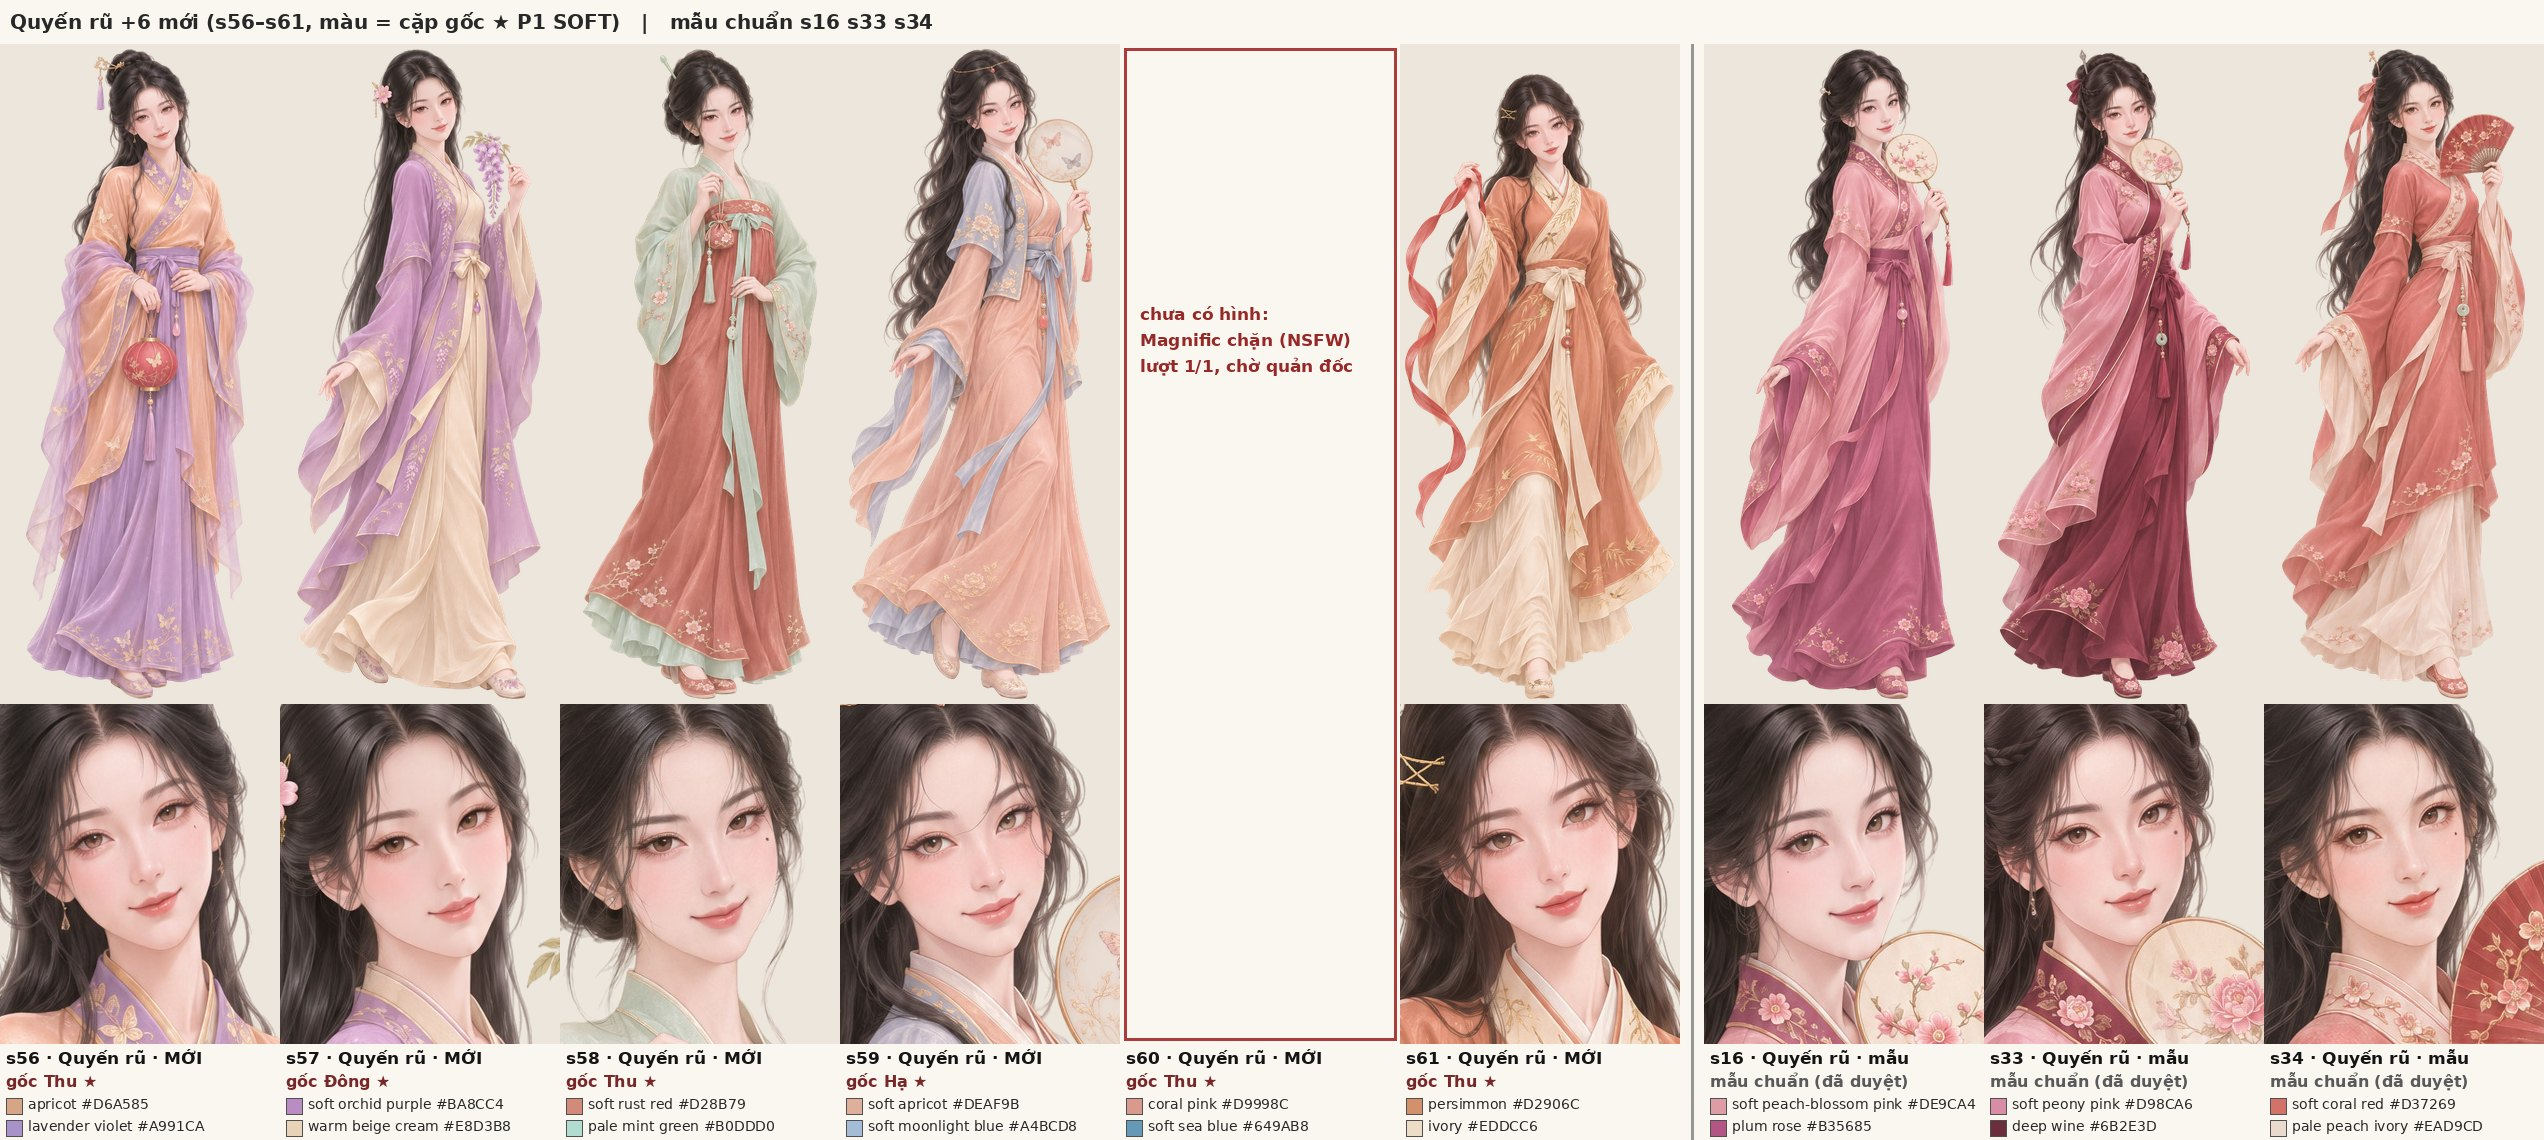
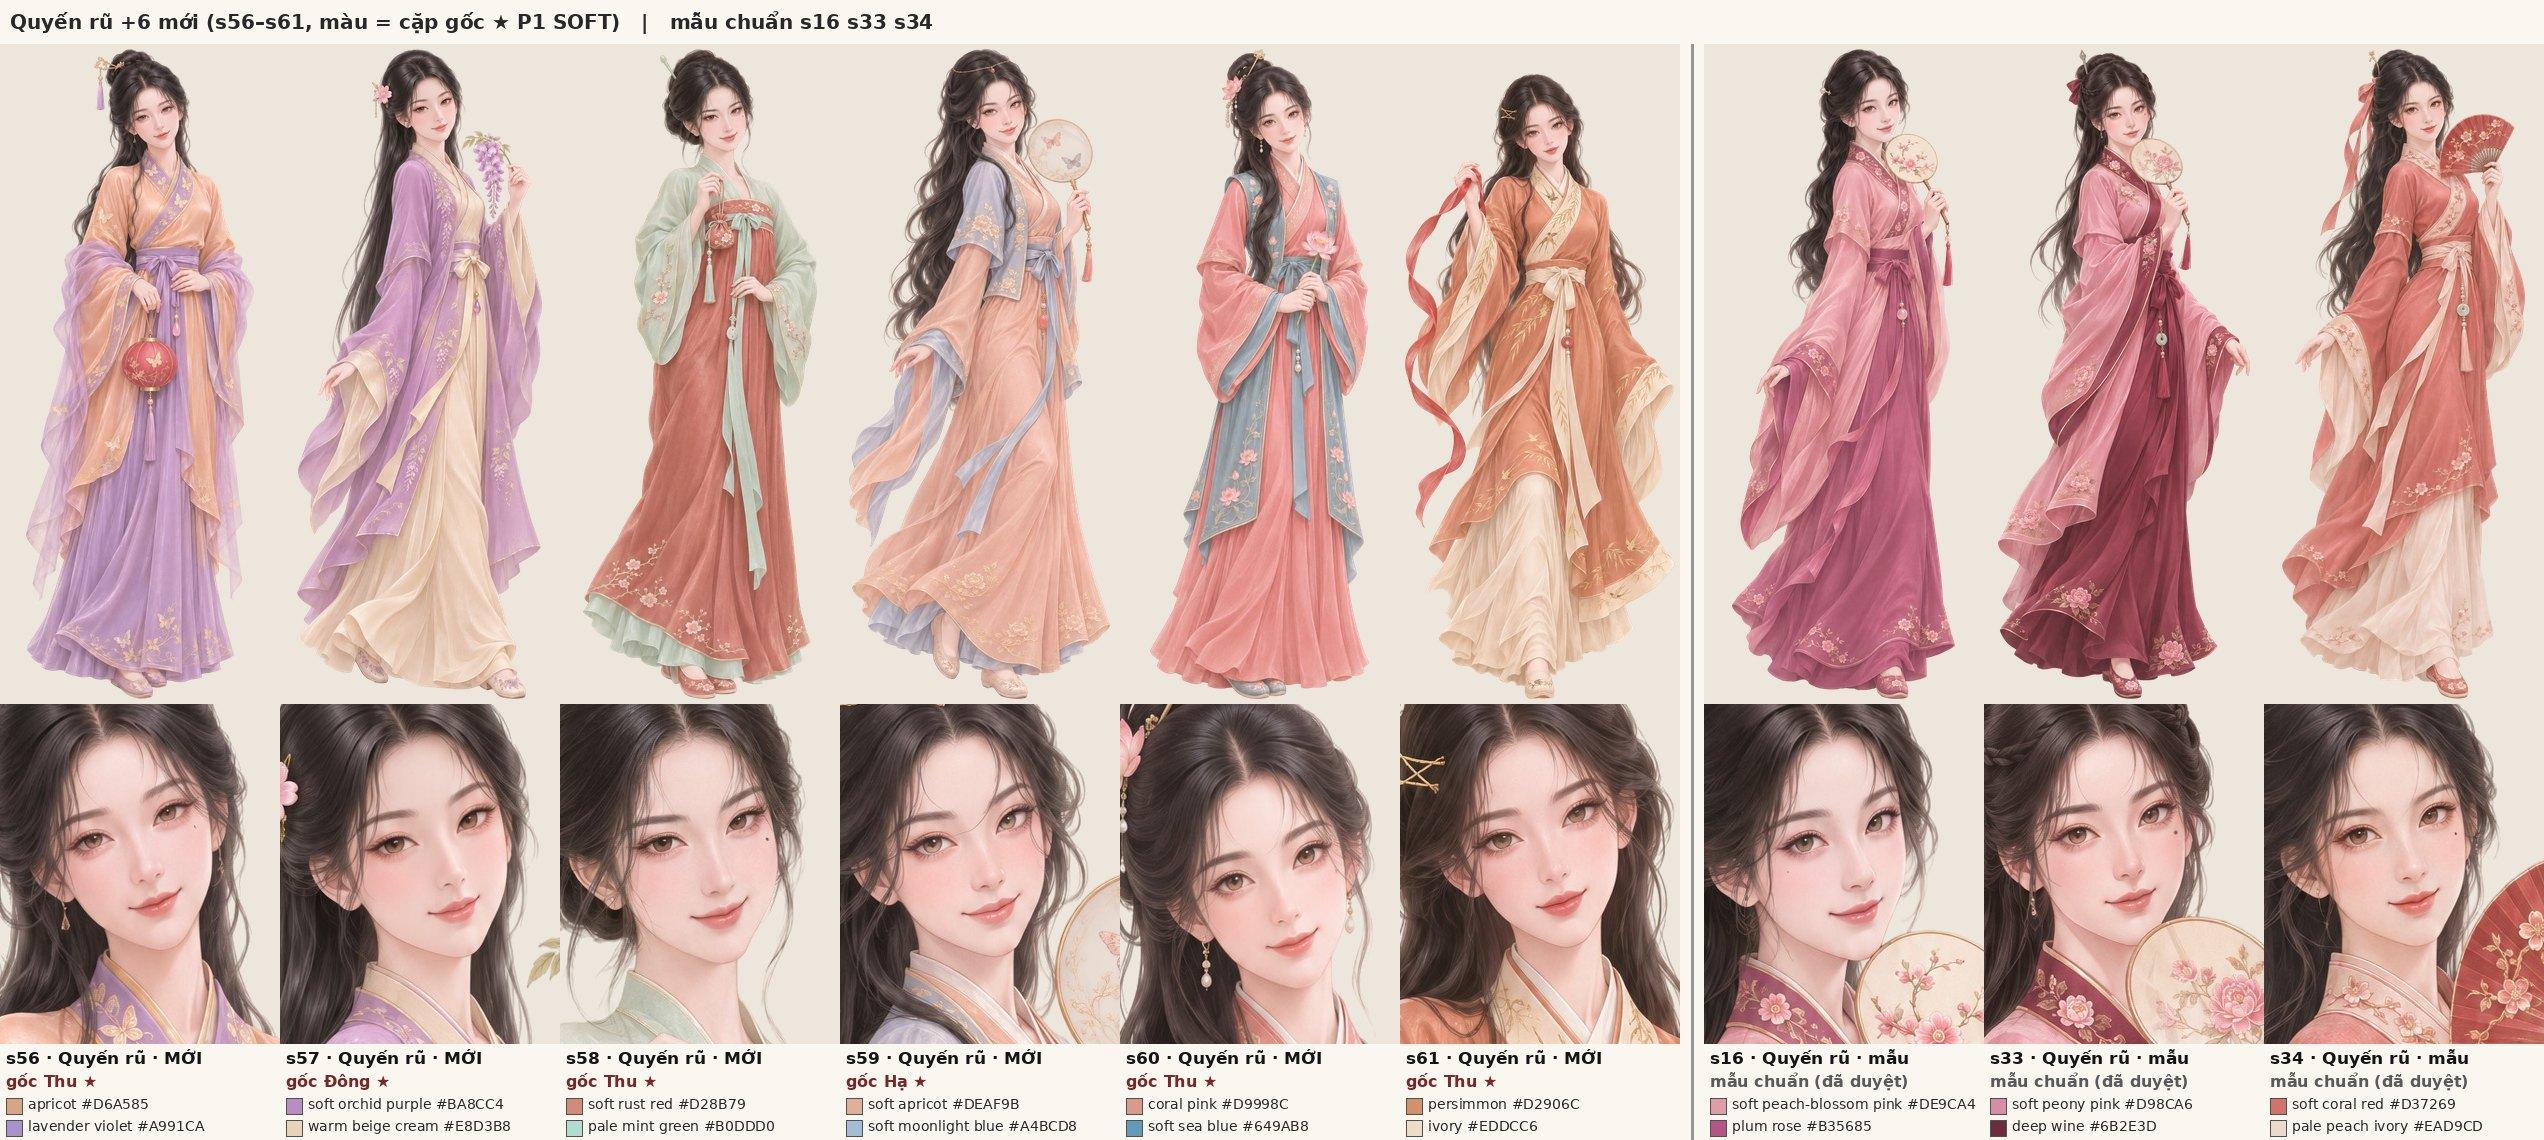
F2 Quyến rũ s60: one retry seed 7173 (foreman GO after NSFW-filter block), cut, map, crop, sheet with all 6
Claude-Session: https://claude.ai/code/session_01PEhRbxZYk34EBHsYxXhgnM

Changed region(s): [[0.4347, 0.0307, 0.559, 0.9211]]

diff --git a/dev/art/face-common/make_sheet_quyenru_L761.py b/dev/art/face-common/make_sheet_quyenru_L761.py
@@ -11,7 +11,7 @@ cut = sys.argv[1]
 sr = json.load(open(os.path.join(D, 's_root_colours.json')))
 VN = {'xuan': 'Xuân', 'ha': 'Hạ', 'thu': 'Thu', 'dong': 'Đông'}
 NEW = ['s56', 's57', 's58', 's59', 's60', 's61']; BEN = ['s16', 's33', 's34']
-MISSING = {'s60': ['chưa có hình:', 'Magnific chặn (NSFW)', 'lượt 1/1, chờ quản đốc']}
+MISSING = {}
 BENCH = {k: (sr[k]['main'], sr[k]['main_hex'], sr[k]['sec'], sr[k]['sec_hex']) for k in BEN}
 F = lambda s, b=False: ImageFont.truetype('/usr/share/fonts/truetype/dejavu/DejaVuSans%s.ttf' % ('-Bold' if b else ''), s)
 CW, FH, ZH, TH, GAP = 280, 660, 340, 96, 24

diff --git a/dev/art/face-common/LOOK_GROUPS.md b/dev/art/face-common/LOOK_GROUPS.md
@@ -82,4 +82,4 @@ File máy đọc: dev/art/face-common/OWNER_GROUPS_L686.json
 - Lượt 737 Sắc sảo DONE (ROOT-56 subagent): c06 redraw (c06.v5 re-run unchanged, A13) → cut hu24KgZvqL (was rgXcT8Jxtc); c19 redraw (c19.v5 re-run) → cut hu24KS2vqL (was gOmpdCcSXO). NEW Sắc sảo s39–s45 (make_sacsao_L737.py → sNN.v5): s39 eIPgu6IdqL (saffron amber + smoky teal), s40 kseWy8L16B (cerulean blue + pale apricot), s41 u5WRlMfQLD (olive green + pale gold beige), s42 tCRyKn2mZJ (raspberry magenta + pale mint), s43 79foGqDJAL (sapphire blue + pale lemon cream), s44 79foGbpJAL (burnt sienna + sage grey), s45 kseWyhP16B (aubergine purple + pale gold). Sắc sảo = 18. Sheet: dev/handover/review-sheets/new-faces-v4/sacsao_L737.jpg.
 - Lượt 761 Lạnh lùng +5 DONE (ROOT-56 subagent, awaiting owner OK): NEW Lạnh lùng s46–s50 (make_lanhlung_L761.py → sNN.v5, same Lạnh lùng v5 block as s13–s15/s26–s32 + thướt tha FABRIC sentence). Colours from the season palette (palettes_season.json, 4 seasons each; root pair in s_root_colours.json), drawn in the root (★) pair: s46 Đông★ cool aquamarine + deep blue-violet → cut cpS1KEv0eP; s47 Hạ★ periwinkle + mint → 1ldcY3kr4r; s48 Xuân★ soft blush pink + aqua celadon → jUoV0AQLD0; s49 Thu★ soft burgundy rose + pine teal → Tdwx1H7VNR; s50 Đông★ clear ice blue + deep raspberry → u5WRiP4QLD. Lạnh lùng = 15. Sheet: dev/handover/review-sheets/new-faces-v4/lanhlung_L761.jpg.
 - Lượt 761/763 Kiêu kỳ +5 DONE (F1, awaiting owner OK): NEW Kiêu kỳ s51–s55 (make_kieuky_L761.py → sNN.v5, T7 Kiêu kỳ v5 block + MASTER + face_gate PASS), roots P1 NEW11 SOFT (s_root_colours.json): s51 cool lilac + soft pine teal → cut dt4SA3PXSL; s52 sky blue + soft coral → lJtpQC3gv9; s53 soft lavender + pale mint green → w4aBbFH7EI; s54 carnation pink + soft sea blue → s7IDuCpl8e; s55 pink lilac + soft jade green → WDgk4PIcXe. Kiêu kỳ = 15. Sheet: dev/handover/review-sheets/new-faces-v4/kieuky_L761.jpg.
-- Lượt 761/789 Quyến rũ +6 (F2, awaiting owner OK): NEW Quyến rũ s56–s61 (make_quyenru_L761.py → sNN.v5, approved wording unchanged per Lượt 787, MASTER + face_gate PASS), roots P1 SOFT (s_root_colours.json): s56 apricot + lavender violet → cut rgX0qMZxtc; s57 soft orchid purple + warm beige cream → VX7jnlVMMU; s58 soft rust red + pale mint green → yiutSarPW9; s59 soft apricot + soft moonlight blue → JNC8lvIOq4; s60 NOT DRAWN (Magnific NSFW filter blocked try 1/1, waits foreman); s61 persimmon + ivory → SyhdxtJUb8. Sheet: dev/handover/review-sheets/new-faces-v4/quyenru_L761.jpg.
+- Lượt 761/789 Quyến rũ +6 (F2, awaiting owner OK): NEW Quyến rũ s56–s61 (make_quyenru_L761.py → sNN.v5, approved wording unchanged per Lượt 787, MASTER + face_gate PASS), roots P1 SOFT (s_root_colours.json): s56 apricot + lavender violet → cut rgX0qMZxtc; s57 soft orchid purple + warm beige cream → VX7jnlVMMU; s58 soft rust red + pale mint green → yiutSarPW9; s59 soft apricot + soft moonlight blue → JNC8lvIOq4; s60 coral pink + soft sea blue → lJtpjSYgv9 (seed 7172 blocked by NSFW filter; foreman GO 1 retry seed 7173); s61 persimmon + ivory → SyhdxtJUb8. Sheet: dev/handover/review-sheets/new-faces-v4/quyenru_L761.jpg.

diff --git a/dev/handover/reports/F1-newfaces.md b/dev/handover/reports/F1-newfaces.md
@@ -99,3 +99,4 @@ START_CTX ≈4 % of 1M (estimate; get_session context_usage read 0) · depth 1 (
 - Faults to show the owner (NOT fixed, L777): beauty mark clearly visible only on s56 and s58; s57/s59/s61 show none at this size. s61 crossed gold pins at the temple stick out sideways (prompt says up/back). s56 has a small gold earring (not in prompt). s57 (orchid) and s56 (lavender skirt) share a purple family.
 - Sheet dev/handover/review-sheets/new-faces-v4/quyenru_L761.jpg (6 slots incl. empty s60 + benchmarks s16 s33 s34, swatches) by make_sheet_quyenru_L761.py; face crops face_page/faces/s56–s59, s61.jpg; FACE_CUTS (indent=0) / FACE_MAP (indent=1) / LOOK_GROUPS updated (OWNER_GROUPS already had them); 6 ledger lines (gen_ledger rebuilt from HEAD + append, skip-worktree cleared).
 - Root seasons on sheet: s56 Thu, s57 Đông, s58 Thu, s59 Hạ, s60 Thu, s61 Thu.
+- **s60 update**: foreman ROOT-57 GO (a) one retry, same prompt, seed 7173 → gen lJtpxtNgv9 → cut lJtpjSYgv9 (138 cr; F2 total 828). Not blocked. Eyes level, lips closed, no teeth, lotus held in both hands, coral pink + sea blue both clear. Faults (not fixed): extra pink silk flower beside the crown hairpin and pearl drop earrings (not in prompt); beauty mark not visible. Sheet rebuilt with all 6 (MISSING emptied in make_sheet_quyenru_L761.py); crop face_page/faces/s60.jpg; FACE_CUTS/FACE_MAP/LOOK_GROUPS/ledger updated.
